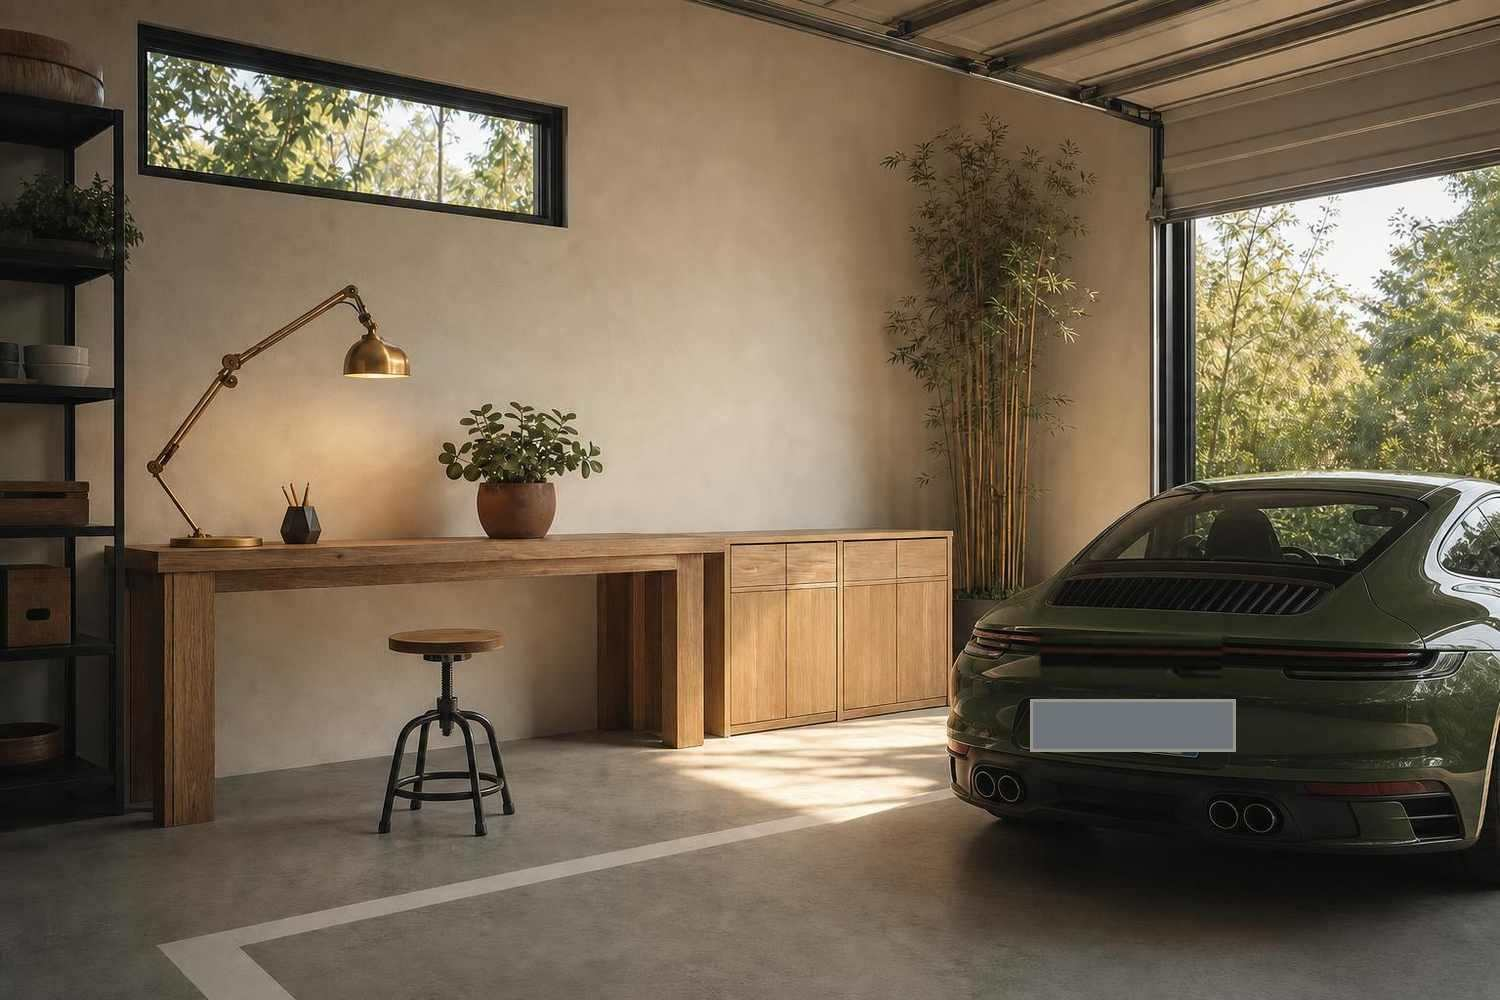
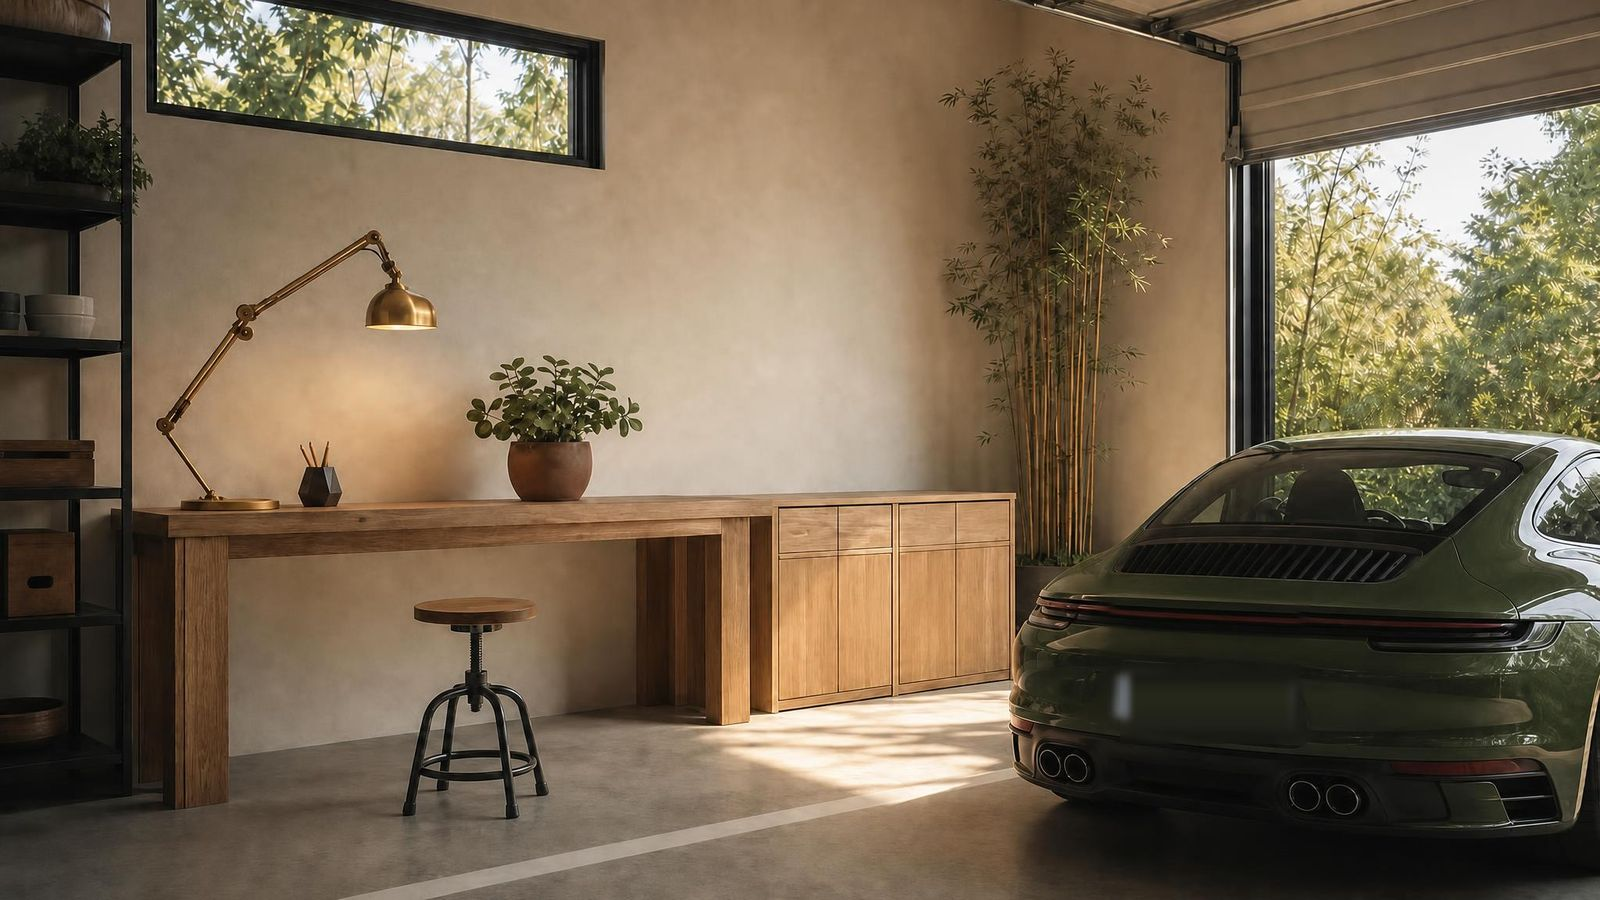
Wire owner lifestyle photos: hero bands, shop plate, de-branded garage
Places the owner's generated photos and lights them up on the site:
- New guarded ProductHero component + HERO_SLUGS allowlist (mirrors the
  shop-card pattern, so a page never points at a missing file). Portrait
  heroes are capped narrower than landscape ones.
- Hero band below the cover on ten product pages (bazi-basics,
  starter-deck, home-diagnostic-workbook, daily-ritual-pack,
  healthy-home-audit, five-elements-workbook, annual-planner) and via
  ProductLanding (business-money, cures-catalog, whole-home bundle).
- Shop threshold plate above the comparison matrix; good-days page hero.
- Whole-home bundle shop card turned on (square cover-thumb).
- Garage plate replaced with the owner's re-shot version, de-branded
  (wordmark gone, blank plate painted out to the bumper).
- Wu Gui storage-wall plate cropped to 3:2 and staged in content/photos
  (opener wiring deferred pending a decision).
- Fix stale smoke-blocks token list: register the 34 recharge diagram
  tokens so the block smoke test passes (49 blocks, 0 failures).

diff --git a/lib/product-assets.ts b/lib/product-assets.ts
@@ -65,6 +65,36 @@ export const CARD_COVER_SLUGS: ReadonlySet<string> = new Set([
   "seven-day-home-reset",
   "all-twelve-spaces-compass",
   "all-nine-pillars-compass",
+  "whole-home-starter-bundle",
+]);
+
+// Products with an installed lifestyle-photo hero at
+// public/products/<slug>/hero.jpg, shown below the cover on the sales page.
+// Guards ProductHero so a page never points at a missing file. Add a slug
+// here once its hero.jpg is in place. (The good-days hero renders on the
+// free /good-days page, not on the delisted product page.)
+export const HERO_SLUGS: ReadonlySet<string> = new Set([
+  "good-days-calendar-2026",
+  "annual-feng-shui-planner-2026",
+  "business-money-feng-shui",
+  "cures-catalog",
+  "five-elements-workbook",
+  "daily-ritual-pack",
+  "home-diagnostic-workbook",
+  "healthy-home-audit",
+  "starter-deck",
+  "bazi-basics",
+  "whole-home-starter-bundle",
+]);
+
+// Of the heroes above, the portrait (tall) ones. These are capped to a
+// narrower max-width so they do not tower over the reading column.
+export const HERO_TALL: ReadonlySet<string> = new Set([
+  "business-money-feng-shui",
+  "home-diagnostic-workbook",
+  "starter-deck",
+  "bazi-basics",
+  "daily-ritual-pack",
 ]);
 
 // Products that ship a booklet-mockup cover (cover-mockup.png) for the

diff --git a/app/globals.css b/app/globals.css
@@ -8429,6 +8429,42 @@ a:hover { color: var(--clay-deep); }
   text-align: center;
 }
 
+/* Lifestyle-photo hero band on a product page, below the cover. Landscape
+   heroes span the column; portrait ones are capped narrower. */
+.product-hero-photo {
+  margin: 2rem auto 1.5rem;
+  max-width: 640px;
+  padding: 0 1.25rem;
+}
+
+.product-hero-photo img {
+  display: block;
+  width: 100%;
+  height: auto;
+  border-radius: var(--radius-lg);
+  box-shadow: var(--shadow-soft);
+}
+
+.product-hero-photo.is-tall {
+  max-width: 400px;
+}
+
+/* The shop's opening plate: a wide threshold view above the comparison
+   matrix, with a calm zone for the overlaid wordmark. */
+.shop-hero-band {
+  max-width: 74rem;
+  margin: 0 auto 2rem;
+  padding: 0 1.25rem;
+}
+
+.shop-hero-band img {
+  display: block;
+  width: 100%;
+  height: auto;
+  border-radius: var(--radius-lg);
+  box-shadow: var(--shadow-soft);
+}
+
 @media (max-width: 30rem) {
   .matrix-table th,
   .matrix-table td {

diff --git a/app/(site)/products/home-diagnostic-workbook/page.tsx b/app/(site)/products/home-diagnostic-workbook/page.tsx
@@ -4,6 +4,7 @@ import BuyButton from "@/components/BuyButton";
 import FulfillmentBlock from "@/components/FulfillmentBlock";
 import ProductPreview from "@/components/ProductPreview";
 import { BaguaGridSample } from "@/components/ProductSampleDiagrams";
+import ProductHero from "@/components/ProductHero";
 
 export const metadata: Metadata = {
   title: "10-Step Home Diagnostic Workbook | My Feng Shui Home",
@@ -63,6 +64,11 @@ export default async function DiagnosticWorkbookPage(props: {
       </section>
 
       <ProductPreview slug="home-diagnostic-workbook" title="10-Step Home Diagnostic Workbook" />
+
+      <ProductHero
+        slug="home-diagnostic-workbook"
+        alt="A floor-plan worksheet with a pencil and brass ruler on an oak table"
+      />
 
       <section className="product-section">
         <h2>What is inside</h2>

diff --git a/components/ProductLanding.tsx b/components/ProductLanding.tsx
@@ -3,6 +3,7 @@ import Link from "next/link";
 import BuyButton, { type BuyButtonState } from "@/components/BuyButton";
 import FulfillmentBlock from "@/components/FulfillmentBlock";
 import ProductPreview from "@/components/ProductPreview";
+import ProductHero from "@/components/ProductHero";
 import FlagshipChooser, { type Flagship } from "@/components/FlagshipChooser";
 import { autolinkProducts } from "@/components/autolinkProducts";
 import { TrustRow, GuaranteeNote } from "@/components/TrustRow";
@@ -191,6 +192,7 @@ export default function ProductLanding({
 
       {/* 4. Look inside */}
       <ProductPreview slug={c.slug} title={c.title} />
+      <ProductHero slug={c.slug} alt={`A room that pictures the ${c.title}`} />
 
       {/* 4b. Value anchor (P6): the tier comparison, flagship only */}
       {c.comparison ? (

diff --git a/app/(site)/products/bazi-basics/page.tsx b/app/(site)/products/bazi-basics/page.tsx
@@ -4,6 +4,7 @@ import BuyButton from "@/components/BuyButton";
 import FulfillmentBlock from "@/components/FulfillmentBlock";
 import ProductPreview from "@/components/ProductPreview";
 import { FourPillarsSample } from "@/components/ProductSampleDiagrams";
+import ProductHero from "@/components/ProductHero";
 
 export const metadata: Metadata = {
   title: "BaZi Basics: Read Your Own Chart | My Feng Shui Home",
@@ -63,6 +64,11 @@ export default async function BaziBasicsPage(props: {
       </section>
 
       <ProductPreview slug="bazi-basics" title="BaZi Basics: Read Your Own Chart" />
+
+      <ProductHero
+        slug="bazi-basics"
+        alt="A quiet study desk at evening lamplight with an open primer and a reading lamp"
+      />
 
       <section className="product-section">
         <h2>What is inside</h2>

diff --git a/components/ProductHero.tsx b/components/ProductHero.tsx
@@ -1,0 +1,21 @@
+import { HERO_SLUGS, HERO_TALL } from "@/lib/product-assets";
+
+// A guarded lifestyle-photo band for a product page, shown below the cover /
+// preview. Renders only when the slug has an installed hero at
+// public/products/<slug>/hero.jpg (tracked in HERO_SLUGS), so a page never
+// points at a missing file. Tall (portrait) heroes are capped narrower so
+// they do not dominate the column.
+export default function ProductHero({ slug, alt }: { slug: string; alt: string }) {
+  if (!HERO_SLUGS.has(slug)) return null;
+  const tall = HERO_TALL.has(slug);
+  return (
+    <figure className={`product-hero-photo${tall ? " is-tall" : ""}`}>
+      <img
+        src={`/products/${slug}/hero.jpg`}
+        alt={alt}
+        loading="lazy"
+        decoding="async"
+      />
+    </figure>
+  );
+}

diff --git a/app/(site)/products/starter-deck/page.tsx b/app/(site)/products/starter-deck/page.tsx
@@ -4,6 +4,7 @@ import BuyButton from "@/components/BuyButton";
 import FulfillmentBlock from "@/components/FulfillmentBlock";
 import ProductPreview from "@/components/ProductPreview";
 import { BaguaGridSample } from "@/components/ProductSampleDiagrams";
+import ProductHero from "@/components/ProductHero";
 
 export const metadata: Metadata = {
   title: "Learn Feng Shui Starter Deck | My Feng Shui Home",
@@ -63,6 +64,11 @@ export default async function StarterDeckPage(props: {
       </section>
 
       <ProductPreview slug="starter-deck" title="Learn Feng Shui Starter Deck" />
+
+      <ProductHero
+        slug="starter-deck"
+        alt="A calm study nook with fanned cards and a compass chart in soft daylight"
+      />
 
       <section className="product-section">
         <h2>What is inside</h2>

diff --git a/app/(site)/good-days/page.tsx b/app/(site)/good-days/page.tsx
@@ -1,6 +1,7 @@
 import type { Metadata } from "next";
 import Link from "next/link";
 import GoodDaysForm from "@/components/GoodDaysForm";
+import ProductHero from "@/components/ProductHero";
 import calendar from "@/lib/day-calendar-2026.json";
 
 // The free Good Days page (shop-redesign task A2). The traffic asset:
@@ -65,6 +66,11 @@ export default function GoodDaysPage() {
       <article className="page-prose good-days-page">
         <p className="eyebrow">The date calendar</p>
         <h1>Good days in 2026 and 2027.</h1>
+
+        <ProductHero
+          slug="good-days-calendar-2026"
+          alt="A calm morning corner with a wall calendar, steaming tea and sheer curtains"
+        />
 
         <section className="good-days-legend" aria-label="How to read this">
           <p>

diff --git a/app/(site)/products/five-elements-workbook/page.tsx b/app/(site)/products/five-elements-workbook/page.tsx
@@ -3,6 +3,7 @@ import Link from "next/link";
 import BuyButton from "@/components/BuyButton";
 import FulfillmentBlock from "@/components/FulfillmentBlock";
 import ProductPreview from "@/components/ProductPreview";
+import ProductHero from "@/components/ProductHero";
 
 export const metadata: Metadata = {
   title: "Five Elements Home Styling Workbook | My Feng Shui Home",
@@ -61,6 +62,11 @@ export default async function FiveElementsWorkbookPage(props: {
       </section>
 
       <ProductPreview slug="five-elements-workbook" title="Five Elements Home Styling Workbook" />
+
+      <ProductHero
+        slug="five-elements-workbook"
+        alt="A calm living room quietly holding all five elements"
+      />
 
       <section className="product-section">
         <h2>What is inside</h2>

diff --git a/app/(site)/products/daily-ritual-pack/page.tsx b/app/(site)/products/daily-ritual-pack/page.tsx
@@ -3,6 +3,7 @@ import Link from "next/link";
 import BuyButton from "@/components/BuyButton";
 import FulfillmentBlock from "@/components/FulfillmentBlock";
 import ProductPreview from "@/components/ProductPreview";
+import ProductHero from "@/components/ProductHero";
 
 export const metadata: Metadata = {
   title: "Daily Ritual and Twenty Laws Pack | My Feng Shui Home",
@@ -62,6 +63,11 @@ export default async function DailyRitualPackPage(props: {
       </section>
 
       <ProductPreview slug="daily-ritual-pack" title="Daily Ritual and Twenty Laws Pack" />
+
+      <ProductHero
+        slug="daily-ritual-pack"
+        alt="A candlelit ritual corner at dusk with a small stack of cards"
+      />
 
       <section className="product-section">
         <h2>What is inside</h2>

diff --git a/app/(site)/products/healthy-home-audit/page.tsx b/app/(site)/products/healthy-home-audit/page.tsx
@@ -3,6 +3,7 @@ import Link from "next/link";
 import BuyButton from "@/components/BuyButton";
 import FulfillmentBlock from "@/components/FulfillmentBlock";
 import ProductPreview from "@/components/ProductPreview";
+import ProductHero from "@/components/ProductHero";
 
 export const metadata: Metadata = {
   title: "Healthy Home Audit | My Feng Shui Home",
@@ -62,6 +63,11 @@ export default async function HealthyHomeAuditPage(props: {
       </section>
 
       <ProductPreview slug="healthy-home-audit" title="Healthy Home Audit" />
+
+      <ProductHero
+        slug="healthy-home-audit"
+        alt="An airy, light-filled room with billowing sheer curtains and plants"
+      />
 
       <section className="product-section">
         <h2>What is inside</h2>

diff --git a/app/(site)/products/annual-feng-shui-planner-2026/page.tsx b/app/(site)/products/annual-feng-shui-planner-2026/page.tsx
@@ -7,6 +7,7 @@ import FlagshipChooser from "@/components/FlagshipChooser";
 import { joinProductWaitlist } from "@/app/actions/product-waitlist";
 
 import PlannerSourceTracker from "@/components/PlannerSourceTracker";
+import ProductHero from "@/components/ProductHero";
 
 export const metadata: Metadata = {
   title:
@@ -193,6 +194,11 @@ export default async function PlannerPage(props: {
           </div>
         </div>
       </section>
+
+      <ProductHero
+        slug="annual-feng-shui-planner-2026"
+        alt="A dawn planning desk with the open planner, a cup of tea and a brass lamp"
+      />
 
       <section
         className="product-top-waitlist"
